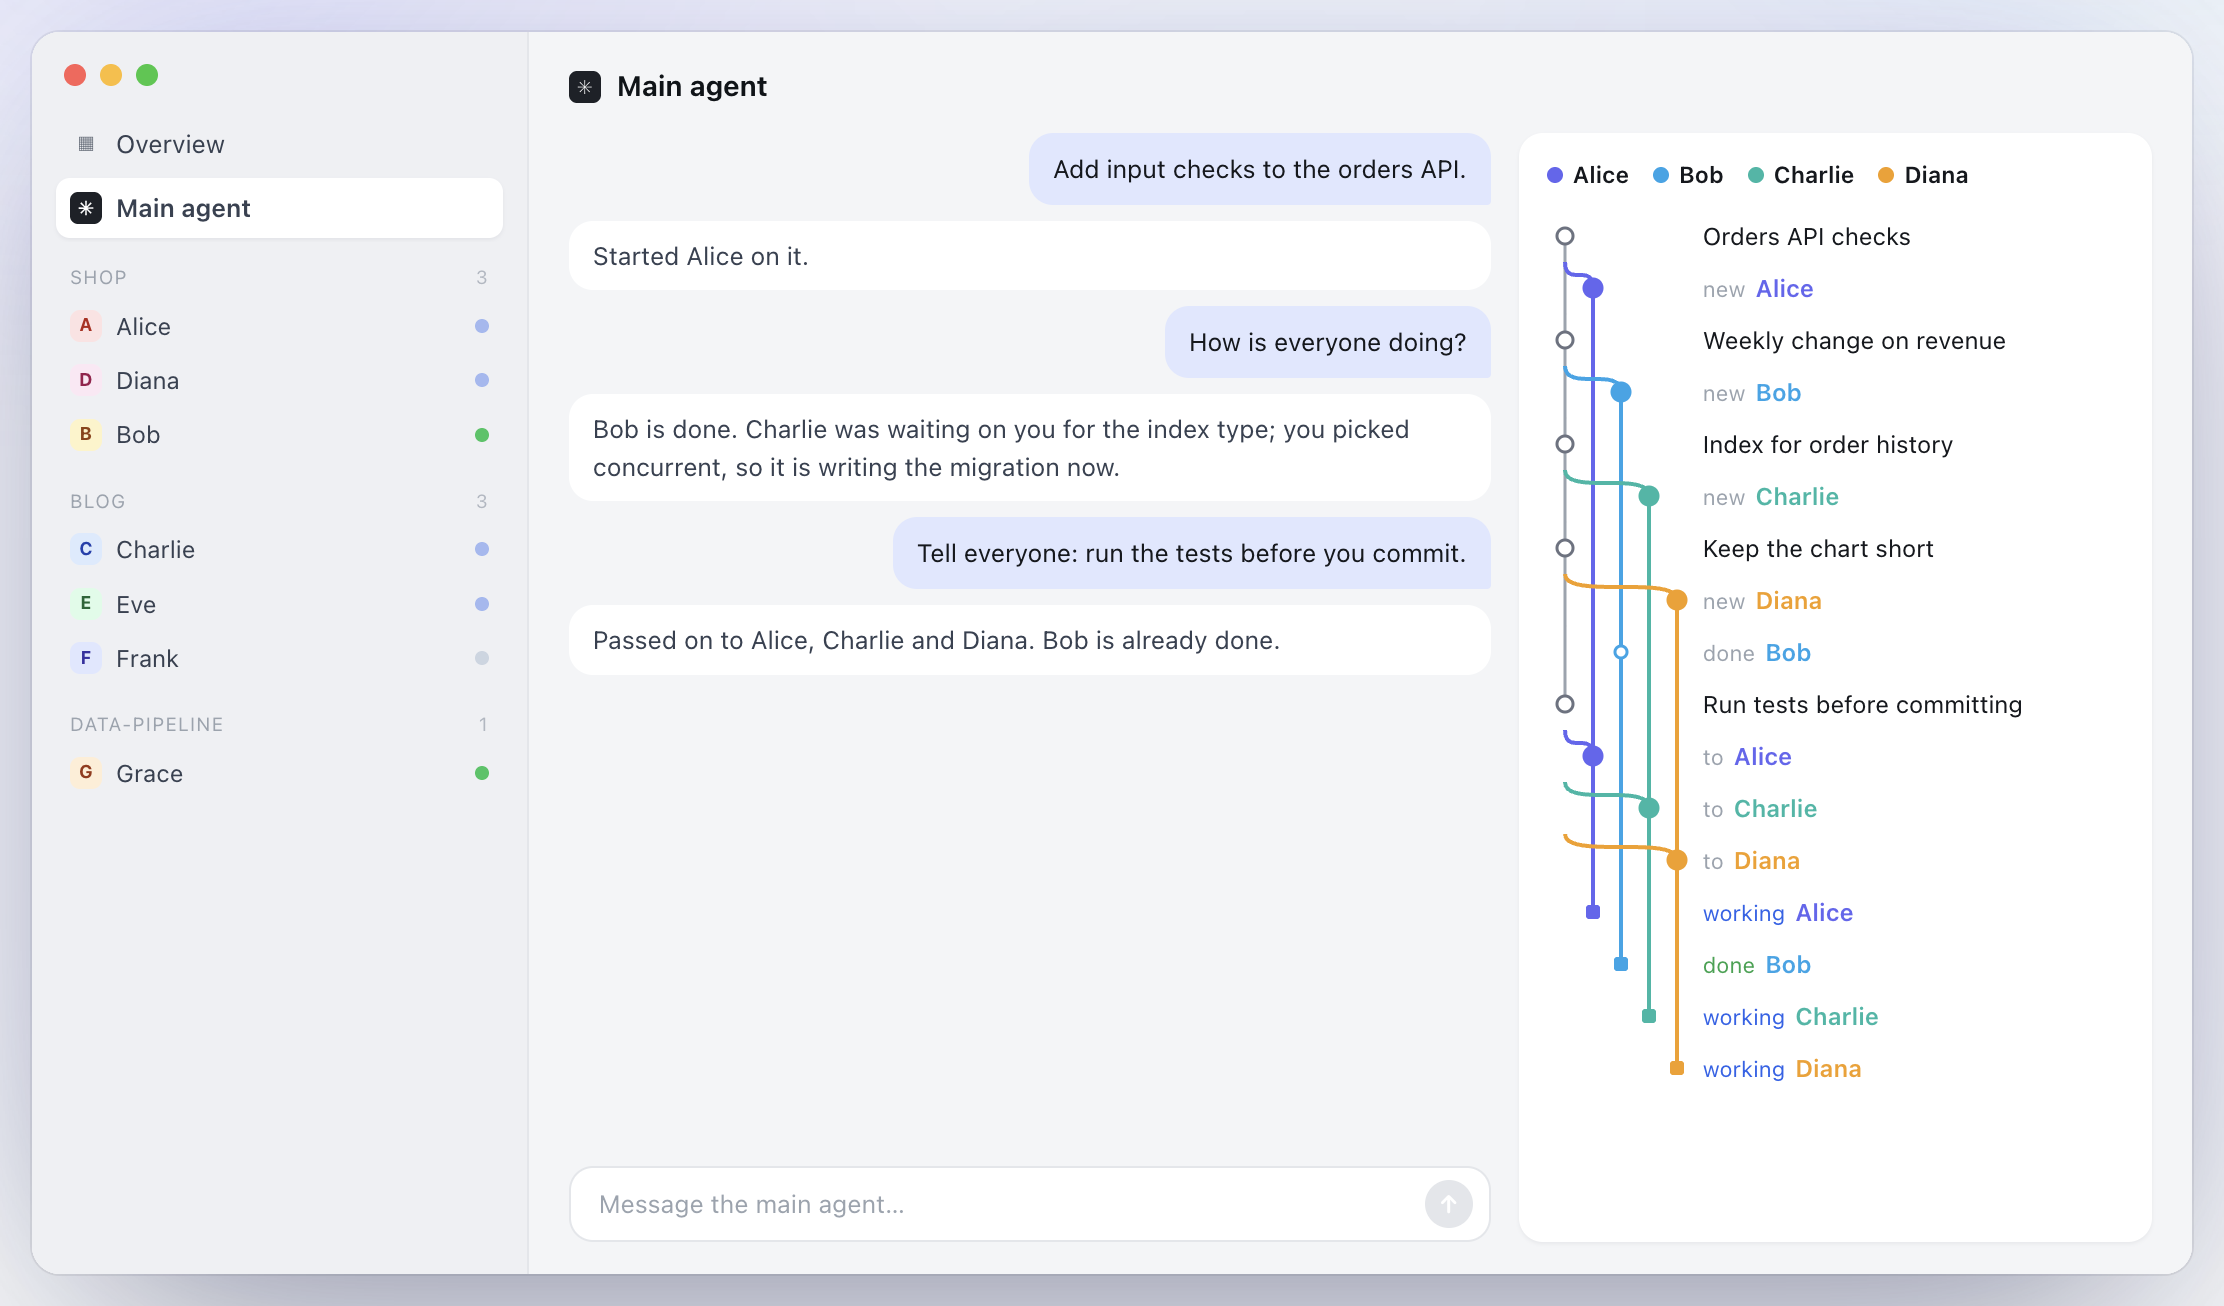
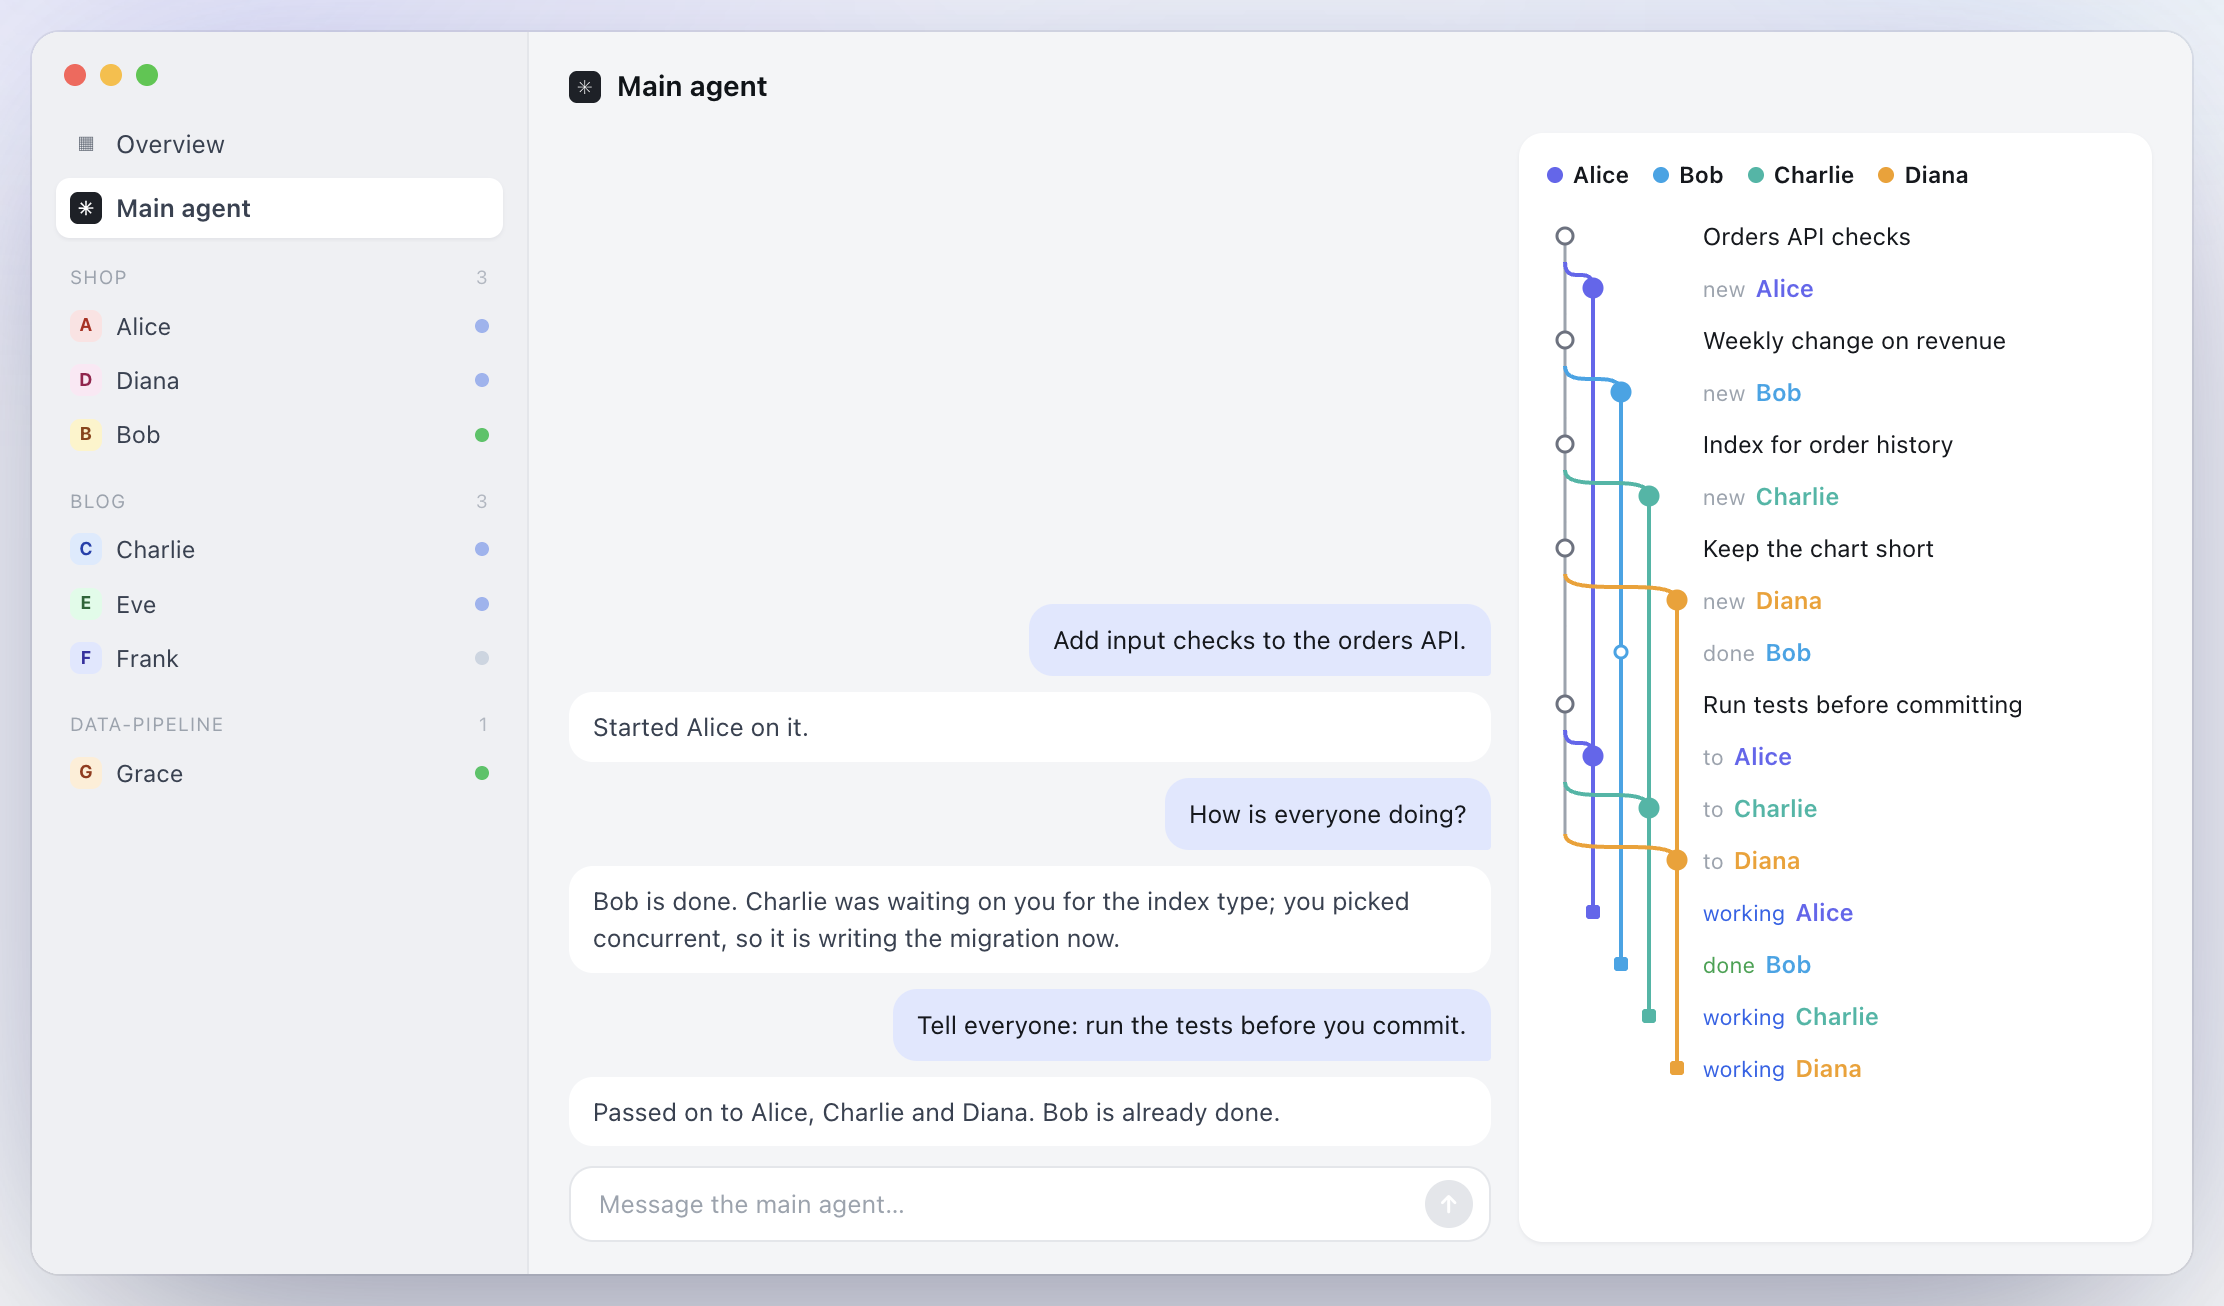
README: new tagline, Claude Code and Codex badges, images re-recorded
- Tagline: a desktop app for managing parallel coding agents, side by side.
- Badges for Claude Code and Codex support.
- demo.webp and the three section images re-recorded: the Team Map's main
  lane now reaches every hand-off, and an agent's page shows a longer
  conversation and Session Map.

diff --git a/README.md b/README.md
@@ -6,11 +6,13 @@
 
 <p align="center">
   <b>Stop juggling tabs and terminals. Run a meeting with your agents.</b><br>
-  A desktop app for running Claude Code and Codex side by side: every agent on its own card, a main agent to pass things on, and a map of how the work went.
+  A desktop app for managing parallel coding agents, side by side.
 </p>
 
 <p align="center">
   <a href="https://github.com/Flitternie/agent-workspace/releases/latest"><img src="https://img.shields.io/github/v/release/Flitternie/agent-workspace?label=download&color=2563eb" alt="Latest release"></a>
+  <img src="https://img.shields.io/badge/Claude%20Code-supported-d97757" alt="Claude Code supported">
+  <img src="https://img.shields.io/badge/Codex-supported-10a37f" alt="Codex supported">
   <img src="https://img.shields.io/badge/macOS-Apple%20Silicon-111?logo=apple" alt="macOS">
   <img src="https://img.shields.io/badge/Windows-experimental-555?logo=windows" alt="Windows (experimental)">
   <a href="LICENSE"><img src="https://img.shields.io/badge/license-AGPL--3.0-16a34a" alt="AGPL-3.0"></a>

diff --git a/README.zh-CN.md b/README.zh-CN.md
@@ -6,11 +6,13 @@
 
 <p align="center">
   <b>多开不乱，一眼看全。</b><br>
-  Claude Code 和 Codex 开得再多，谁在干活、谁在等你、每一步怎么走的，都在一个窗口里。
+  一个桌面应用，把并行的多个编程 Agent 放在一起管理。
 </p>
 
 <p align="center">
   <a href="https://github.com/Flitternie/agent-workspace/releases/latest"><img src="https://img.shields.io/github/v/release/Flitternie/agent-workspace?label=%E4%B8%8B%E8%BD%BD&color=2563eb" alt="最新版本"></a>
+  <img src="https://img.shields.io/badge/Claude%20Code-supported-d97757" alt="支持 Claude Code">
+  <img src="https://img.shields.io/badge/Codex-supported-10a37f" alt="支持 Codex">
   <img src="https://img.shields.io/badge/macOS-Apple%20Silicon-111?logo=apple" alt="macOS">
   <img src="https://img.shields.io/badge/Windows-%E5%AE%9E%E9%AA%8C%E6%80%A7-555?logo=windows" alt="Windows（实验性）">
   <a href="LICENSE"><img src="https://img.shields.io/badge/license-AGPL--3.0-16a34a" alt="AGPL-3.0"></a>
